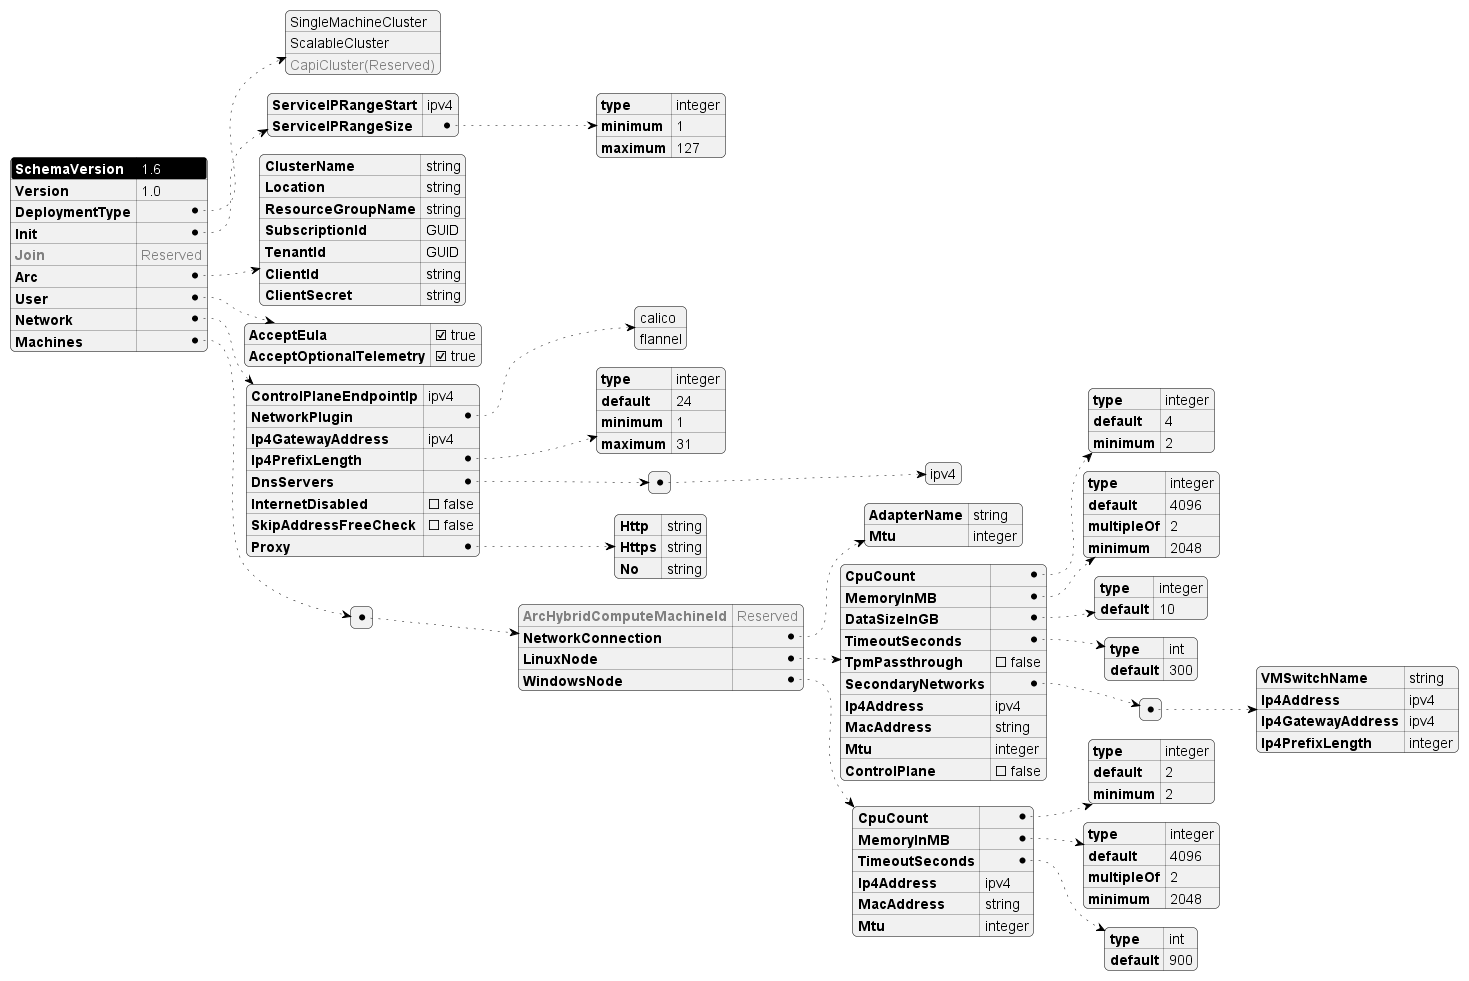
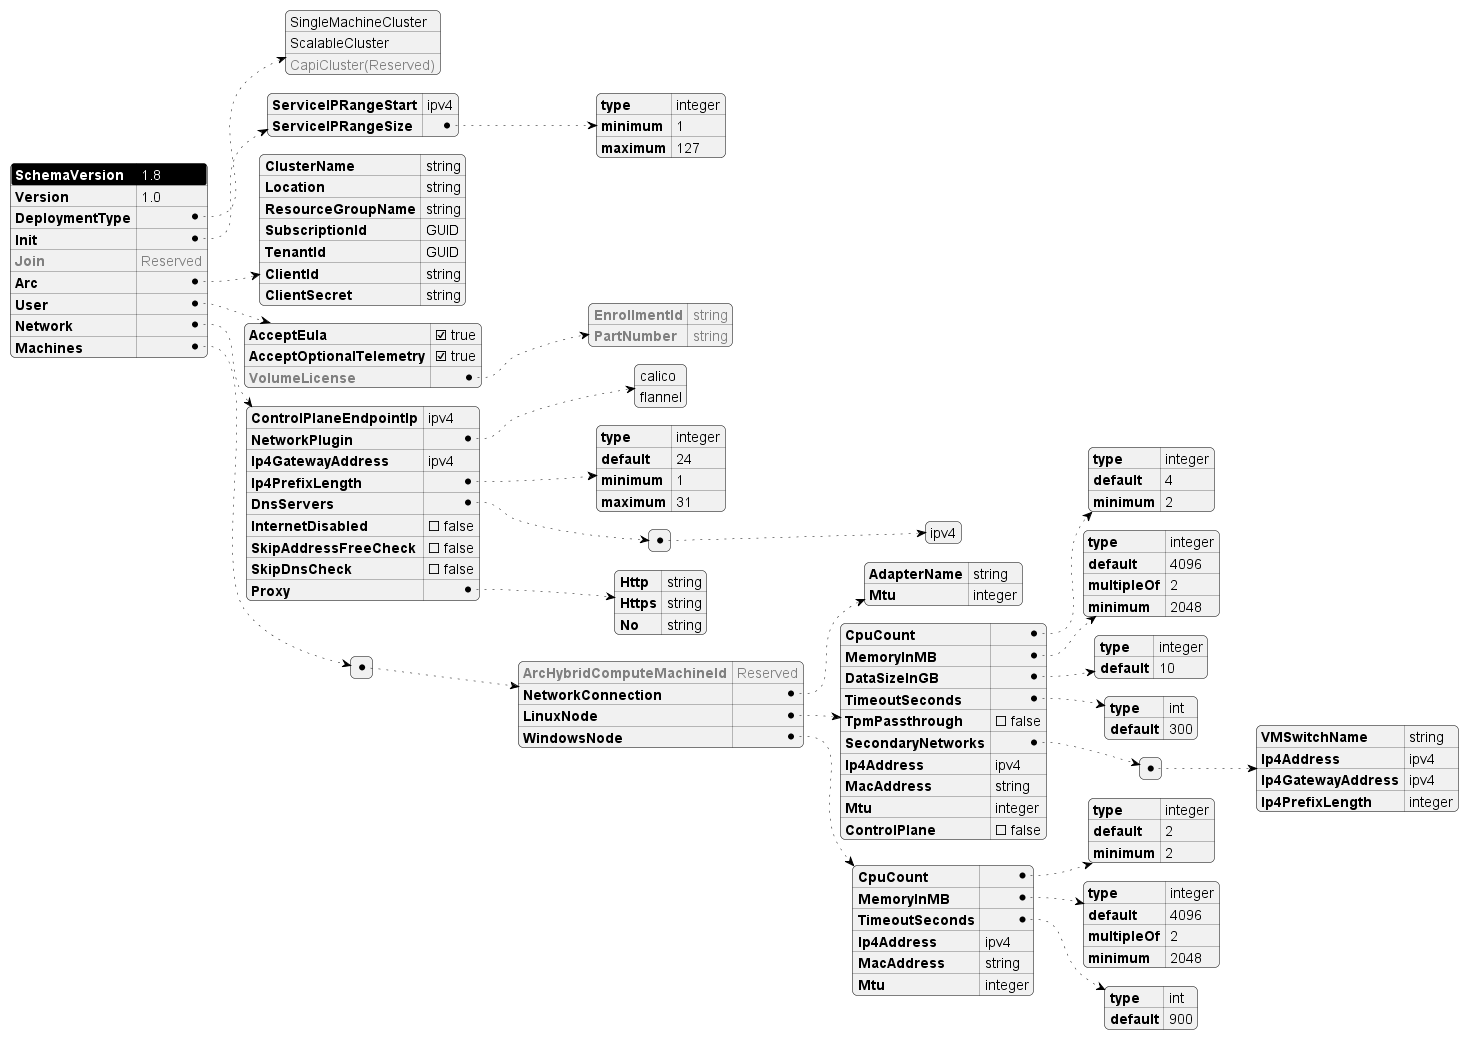
schema 1.8 changes

diff --git a/README.md b/README.md
@@ -6,7 +6,7 @@ This repository is offered for tracking features and issues with the Azure Kuber
 
 Support through issues on this repository is provided on a **best-effort basis** for issues that are reproducible following our **Bug Guidance** below. To receive urgent support, you must file a support request through official Azure support channels, as urgent support is explicitly out of the scope of this repository's objectives.
 
-:warning: **IMPORTANT**: 04/17/2023 -  AKS Edge Essentials is now [Generally Available (GA)](https://aka.ms/aks-edge/ga-blog) - [Latest Version 1.1.220.0](https://github.com/Azure/AKS-Edge/releases/tag/1.1.220.0).
+:warning: **IMPORTANT**: 04/17/2023 -  AKS Edge Essentials is now [Generally Available (GA)](https://aka.ms/aks-edge/ga-blog) - [Latest Version 1.2.414.0](https://github.com/Azure/AKS-Edge/releases/tag/1.2.414.0).
 
 ## Important Links
 

diff --git a/tools/scripts/AksEdgeQuickStart/README.md b/tools/scripts/AksEdgeQuickStart/README.md
@@ -74,4 +74,4 @@ AksEdgeQuickStart enables you to quickly bootstrap your machine with installatio
 4. Downloads the AKS Edge Essentials MSI, installs it and deploys `SingleMachineCluster` using the `Start-AideWorkflow` function.
    - This function invokes `Install-AksEdgeHostFeatures` that installs all the required OS features and policy settings on the host machine. A restart will be triggered when the Hyper-V feature is enabled and when this occurs, the script needs to be re-run to continue further.
 5. Finally, using the Azure credentials created in step 2, the host machine and the cluster are connected to Arc using `Connect-AideArc` function.
-   - Note that the required Az Powershell modules and the required `helm` binary are installed using `Initialise-AideArc` function.
+   - Note that the required Az Powershell modules are installed using `Initialise-AideArc` function.

diff --git a/tools/modules/AksEdgeDeploy/README.md b/tools/modules/AksEdgeDeploy/README.md
@@ -20,7 +20,7 @@ The `Start-AideWorkflow` function in the modole does the following:
         "Version": "1.0",
         "AksEdgeProduct" : "AKS Edge Essentials - K3s",
         "AksEdgeConfig": {
-            "SchemaVersion": "1.6",
+            "SchemaVersion": "1.8",
             "Version": "1.0",
             "DeploymentType": "SingleMachineCluster",
             "Init": {
